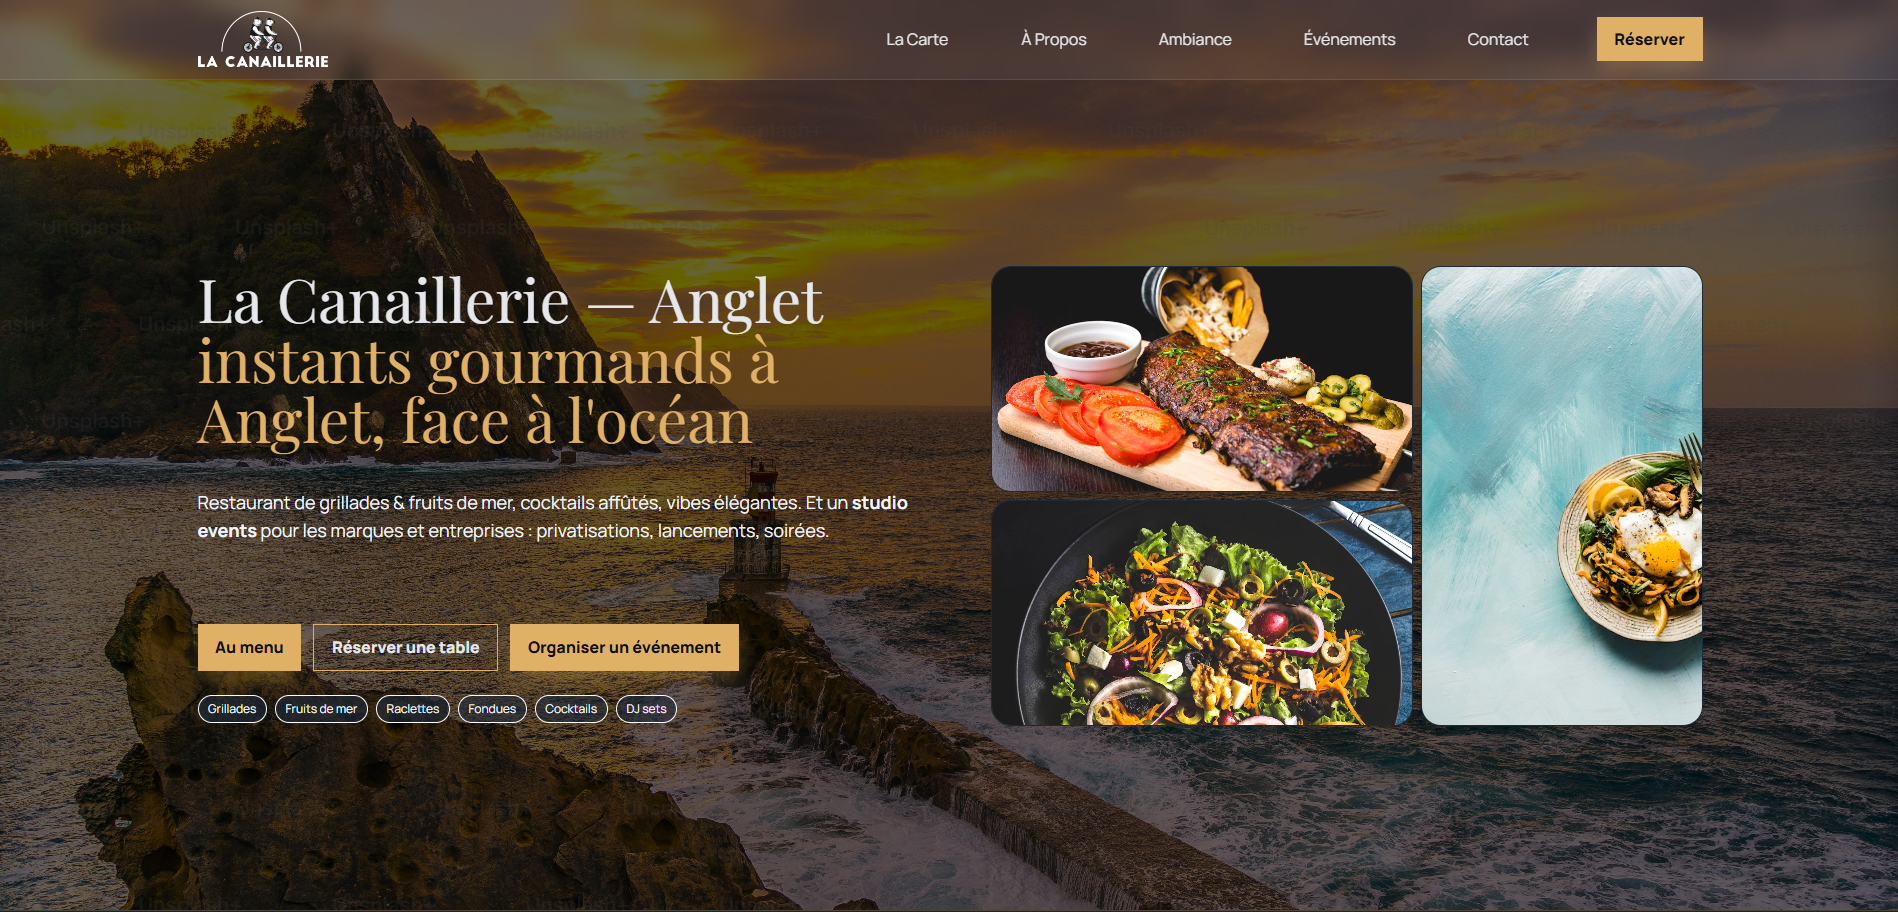
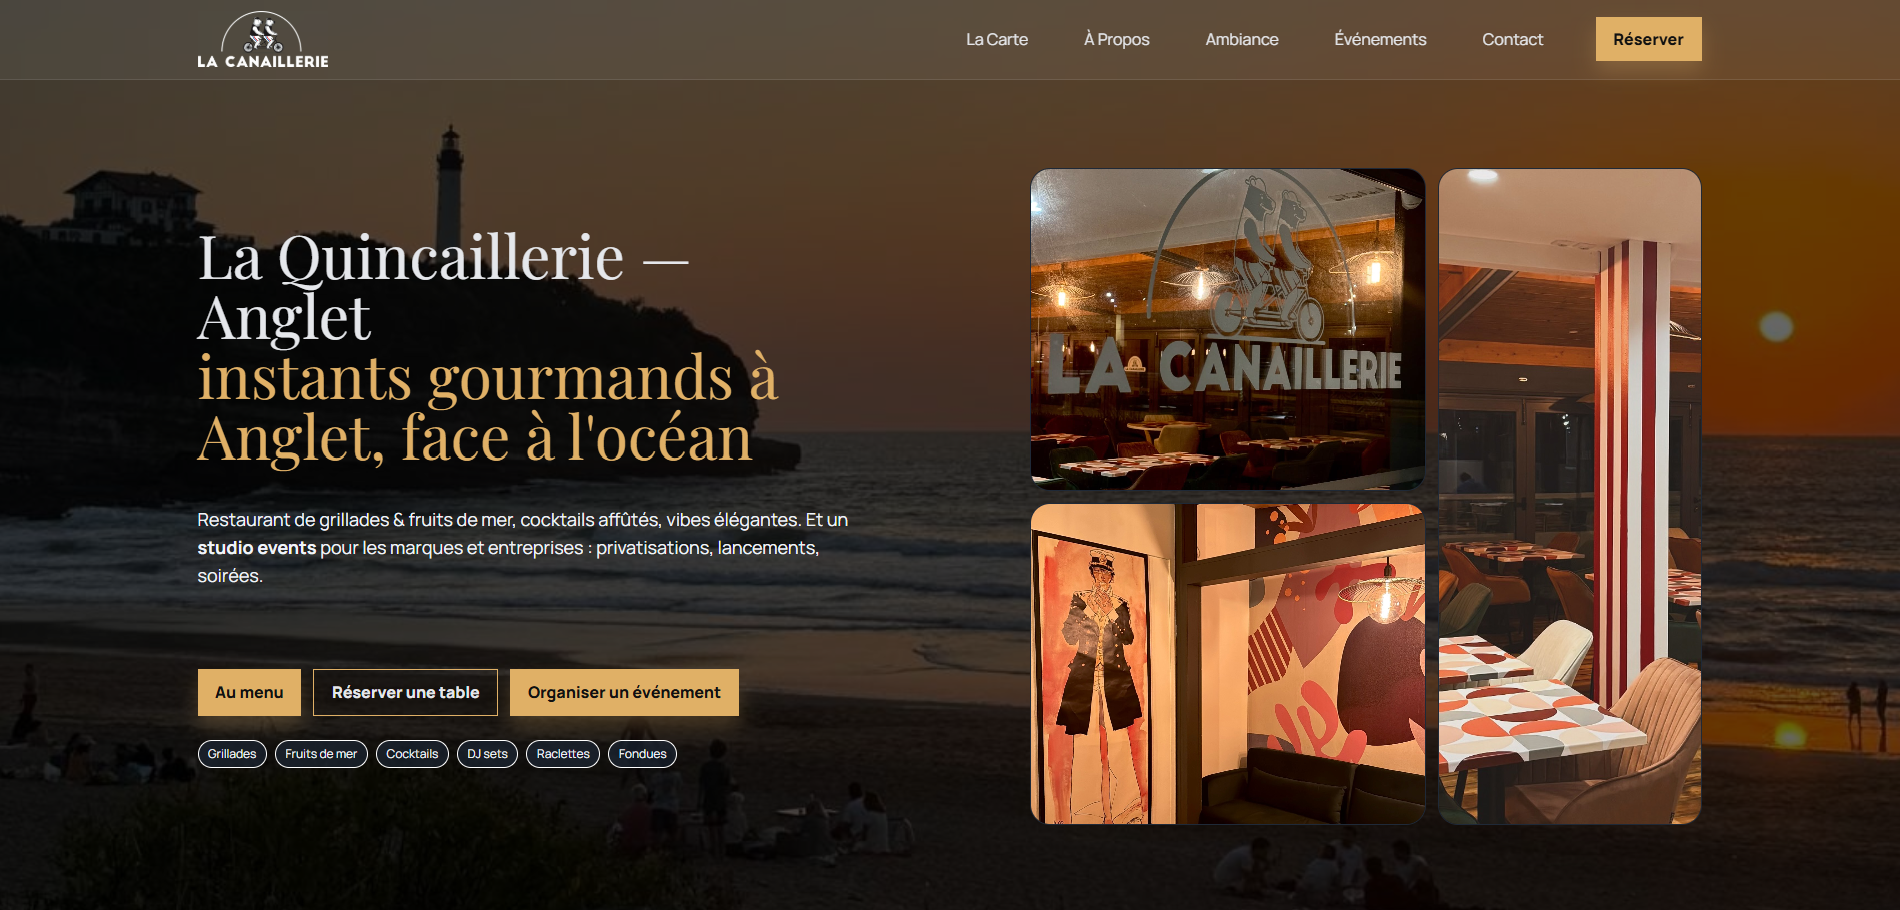
MàJ nom projet et capture landing La Quincaillerie

diff --git a/index.html b/index.html
@@ -168,7 +168,7 @@
             <!-- <h4>En cours...</h4> -->
 
 
-            <h3>La Canaillerie - Restaurant</h3>
+            <h3>La Quincaillerie - Restaurant</h3>
             <span class="in-progress">En cours...</span>
             <!-- <p class="black-box">J'ai développé le site sur lequel vous êtes actuellement de A à Z en HTML et
                         CSS uniquement. Il constitue mon nouveau Portfolio officiel, contenant les projets notables sur
